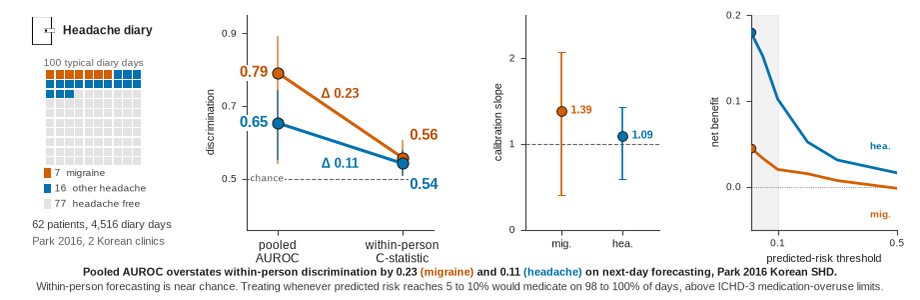
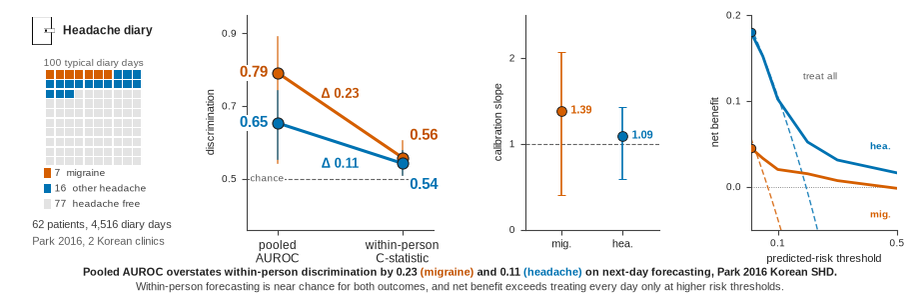
dca

Changed region(s): [[0.0304, 0.93, 0.9739, 0.99], [0.8522, 0.24, 0.913, 0.27]]

diff --git a/docs/methodAndResults_diagramCreatorScripts/graphical_abstract.py b/docs/methodAndResults_diagramCreatorScripts/graphical_abstract.py
@@ -251,8 +251,14 @@ def _draw_dca_sparkline(ax) -> None:
     migraine_nb = np.interp(t, t_anchor, migraine_anchor)
     # Zero reference (treat none)
     ax.axhline(0.0, color=S.REF_COLOR, lw=0.6, ls=":", alpha=0.6, zorder=1)
-    # Highlight clinically plausible sub-band t in [0.01, 0.10]
-    ax.axvspan(0.01, 0.10, color="grey", alpha=0.10, zorder=0)
+    # Treat-all reference. Without it a decision curve cannot be read: positive net
+    # benefit alone does not mean a model beats the trivial strategy. Prevalences
+    # are the headline-cell values from experiment/2/figdata_*.json.
+    for prev, col in ((0.1948, hea_col), (0.0661, mig_col)):
+        ax.plot(t, prev - (1 - prev) * t / (1 - t), color=col, lw=1.0,
+                ls=(0, (4, 2)), alpha=0.85, zorder=2)
+    ax.text(0.185, 0.128, "treat all", fontsize=7, color="#5f5f5f",
+            ha="left", va="center")
     # Lines
     ax.plot(t, headache_nb, color=hea_col, lw=2.0, zorder=3)
     ax.plot(t, migraine_nb, color=mig_col, lw=2.0, zorder=3)
@@ -309,9 +315,8 @@ def main() -> None:
         (" on next-day forecasting, Park 2016 Korean SHD.", S.INK, "bold"),
     ]
     line2 = [
-        ("Within-person forecasting is near chance. Treating whenever predicted "
-         "risk reaches 5 to 10% would medicate on 98 to 100% of days, above "
-         "ICHD-3 medication-overuse limits.",
+        ("Within-person forecasting is near chance for both outcomes, and net "
+         "benefit exceeds treating every day only at higher risk thresholds.",
          "#3d3d3d", "normal"),
     ]
     rows = []
